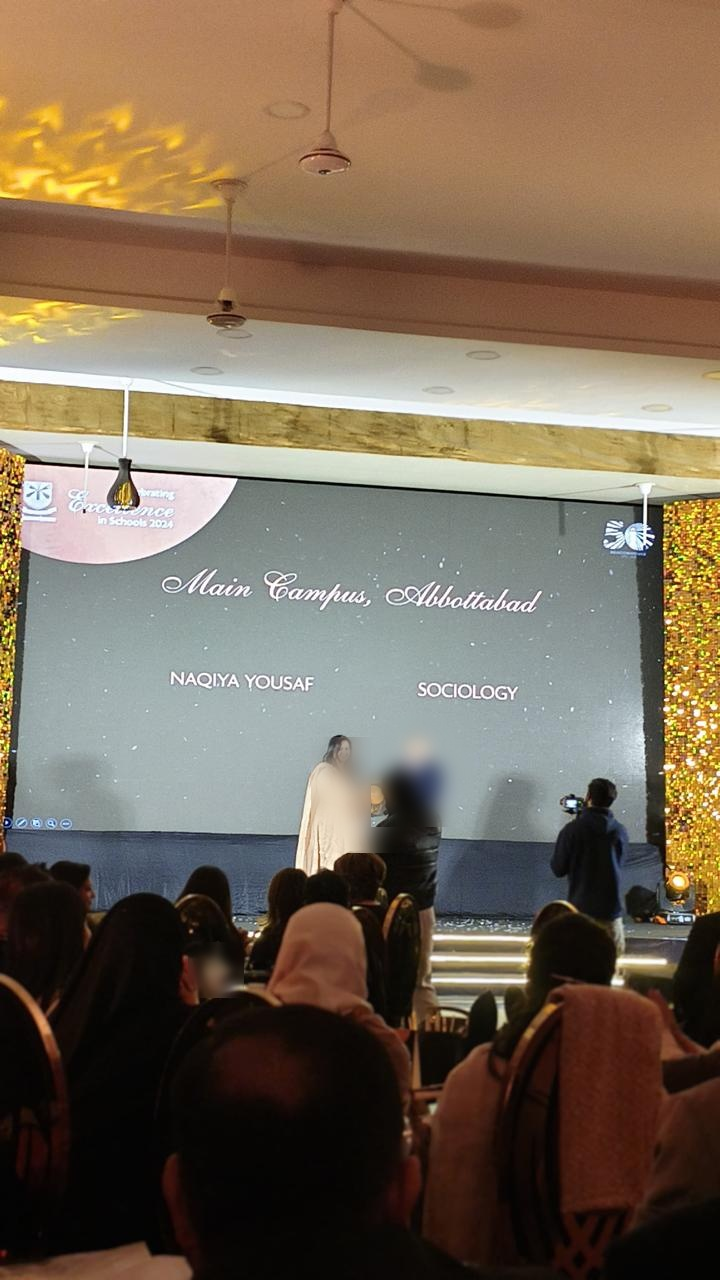
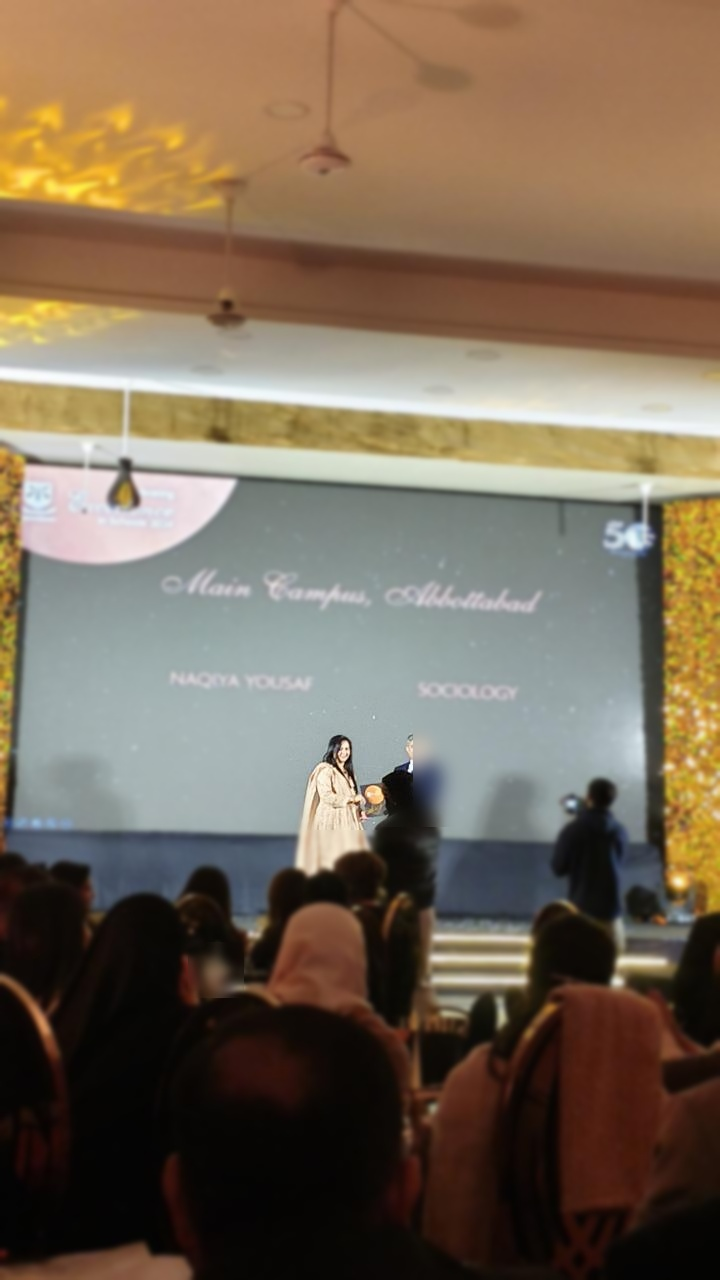
Unblur Naqiya's face, add light background blur, speed up carousel to 1s
Claude-Session: https://claude.ai/code/session_01WkbvcGjqe3EJFVL67AjrQQ

diff --git a/js/data/teacher.js b/js/data/teacher.js
@@ -45,19 +45,19 @@ const teacher = {
   photoGallery: [
     {
       src: 'images/photo-1-class-lecture.jpg',
-      alt: 'Naqiya Yousaf teaching an A Level Sociology class (faces blurred for privacy)',
+      alt: 'Naqiya Yousaf teaching an A Level Sociology class',
     },
     {
       src: 'images/photo-2-award-ceremony.jpg',
-      alt: 'Naqiya Yousaf receiving recognition for Distinction in Sociology, Beaconhouse School System — Main Campus, Abbottabad (faces blurred for privacy)',
+      alt: 'Naqiya Yousaf receiving recognition for Distinction in Sociology, Beaconhouse School System — Main Campus, Abbottabad (other faces blurred for privacy)',
     },
     {
       src: 'images/photo-3-speech-competition.jpg',
-      alt: 'Naqiya Yousaf judging a school speech competition (faces blurred for privacy)',
+      alt: 'Naqiya Yousaf judging a school speech competition (other faces blurred for privacy)',
     },
     {
       src: 'images/photo-4-training-session.jpg',
-      alt: 'Naqiya Yousaf at a Beaconhouse teacher training session (faces blurred for privacy)',
+      alt: 'Naqiya Yousaf at a Beaconhouse teacher training session (other faces blurred for privacy)',
     },
     {
       src: 'images/photo-5-class-presentation.jpg',
@@ -65,11 +65,11 @@ const teacher = {
     },
     {
       src: 'images/photo-6-result-celebration.jpg',
-      alt: 'Celebrating a marvellous Sociology result, 2024 (faces blurred for privacy)',
+      alt: 'Naqiya Yousaf celebrating a marvellous Sociology result, 2024 (other faces blurred for privacy)',
     },
     {
       src: 'images/photo-7-receiving-certificate.jpg',
-      alt: 'A student receiving a certificate at Beaconhouse School System — Main Campus, Abbottabad (faces blurred for privacy)',
+      alt: 'Naqiya Yousaf receiving a certificate at Beaconhouse School System — Main Campus, Abbottabad (other faces blurred for privacy)',
     },
   ],
 

diff --git a/js/components.js b/js/components.js
@@ -281,7 +281,7 @@ export function renderFilterTabs(container, options, initial, label, onChange) {
 // Autoplay pauses on hover/focus and is skipped entirely for visitors
 // who prefer reduced motion.
 // =====================================================================
-export function initImageCarousel(frameEl, images, { interval = 2500, autoplay = true } = {}) {
+export function initImageCarousel(frameEl, images, { interval = 1000, autoplay = true } = {}) {
   if (!images || images.length === 0) return
 
   const track = document.createElement('div')

diff --git a/README.md b/README.md
@@ -91,7 +91,7 @@ photoGallery: [
 
 To add a photo: place the image file in `/images/` and add an object pointing to it. To remove one: delete its object from the array. The order in the array is the order it appears in the carousel. Upright (portrait-orientation) photos with similar cropping work best since they all share the same frame.
 
-Every photo currently in the gallery has had faces blurred (including Naqiya's own), at her request. If you add new photos, blur any faces yourself before adding them here — this site does not do that automatically.
+Every photo currently in the gallery has a light overall background blur (a soft portrait look), with Naqiya's own face left sharp and every other person's face blurred for privacy. If you add new photos, apply the same treatment yourself before adding them here — this site does not do that automatically.
 
 ---
 
